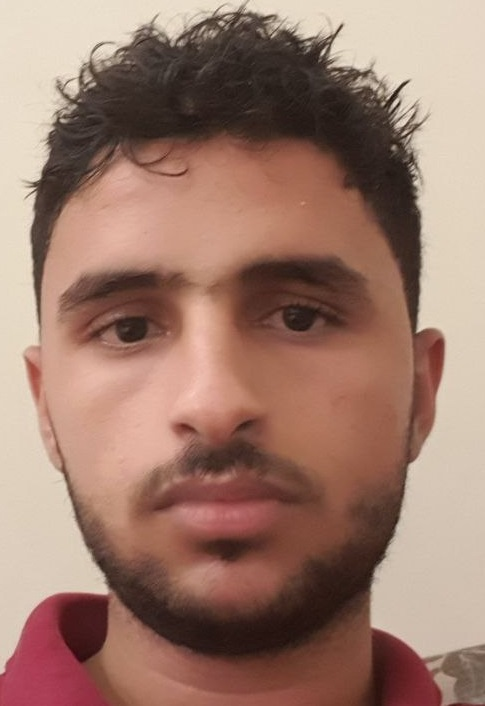
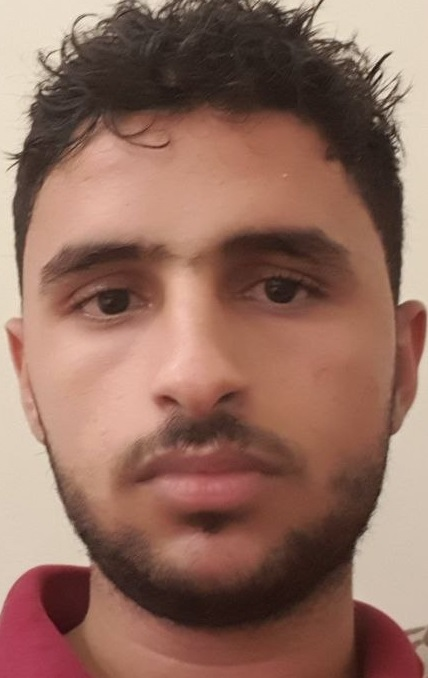
chances on loader

diff --git a/css/style.css b/css/style.css
@@ -342,7 +342,8 @@ h6 {
     margin-top: -25px;
     margin-left: -25px;
     border-radius: 50px;
-    background: url(../images/AbdulqaderImage.jpg) center center;
+    border-image-repeat: stretch;
+    background: url(../images/spinner2.jpg) center center;
 }
 
 /*------------------------ 2 Profile Section ------------------------*/
